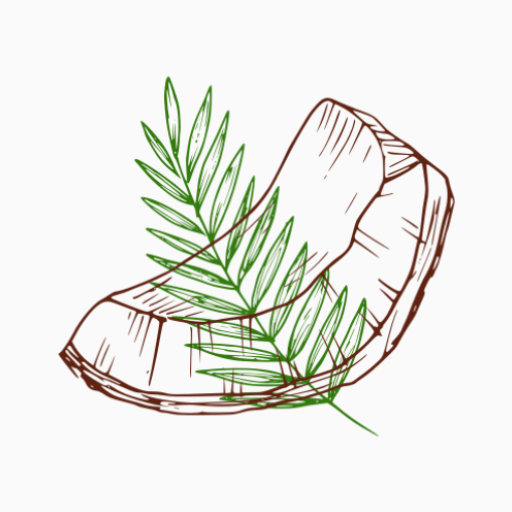
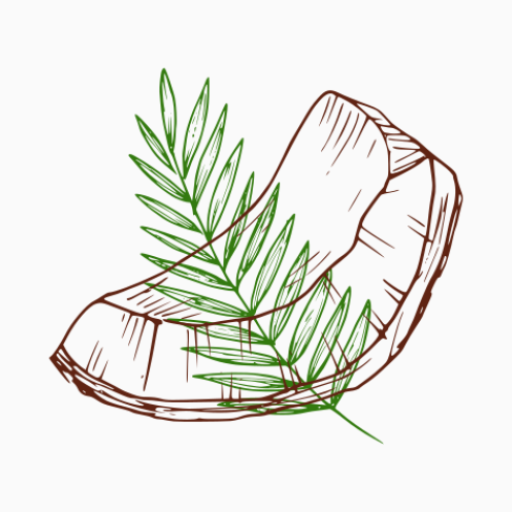
Added aesthetics, need to implement MVVM

Changed region(s): [[0.0938, 0.125, 0.9062, 0.8438], [0.625, 0.2812, 0.6562, 0.3438], [0.7188, 0.8438, 0.75, 0.875]]

diff --git a/app/src/main/java/com/example/cocophraser/CocoPhraserScreen.kt b/app/src/main/java/com/example/cocophraser/CocoPhraserScreen.kt
@@ -1,5 +1,6 @@
 package com.example.cocophraser
 
+import androidx.compose.foundation.Image
 import androidx.compose.foundation.border
 import androidx.compose.foundation.layout.Arrangement
 import androidx.compose.foundation.layout.Box
@@ -8,6 +9,7 @@ import androidx.compose.foundation.layout.Spacer
 import androidx.compose.foundation.layout.fillMaxSize
 import androidx.compose.foundation.layout.height
 import androidx.compose.foundation.layout.padding
+import androidx.compose.foundation.layout.size
 import androidx.compose.foundation.layout.width
 import androidx.compose.foundation.shape.RoundedCornerShape
 import androidx.compose.material3.Button
@@ -21,6 +23,9 @@ import androidx.compose.runtime.setValue
 import androidx.compose.ui.Alignment
 import androidx.compose.ui.Modifier
 import androidx.compose.ui.graphics.Color
+import androidx.compose.ui.res.painterResource
+import androidx.compose.ui.text.font.FontFamily
+import androidx.compose.ui.text.font.FontWeight
 import androidx.compose.ui.unit.dp
 import androidx.compose.ui.unit.sp
 import kotlinx.coroutines.CoroutineScope
@@ -34,7 +39,7 @@ fun CocoPhraserScreen() {
     var desiredPasswordLength by remember { mutableStateOf(10f) }
 
     // List of dictionary words (you can replace it with your own words)
-    val dictionaryWords = FourThousandWords.words
+    val dictionaryWords = LocalWordList.words
 
     // Function to generate a random character
     fun generateRandomCharacter(): Char {
@@ -82,7 +87,17 @@ fun CocoPhraserScreen() {
             verticalArrangement = Arrangement.Center,
             horizontalAlignment = Alignment.CenterHorizontally
         ) {
-            Text("Coco Phraser", fontSize = 24.sp)
+            Image(
+                painter = painterResource(R.mipmap.coco_phraser_shell_foreground), // Replace with your image resource ID
+                contentDescription = "Image content description", // Provide a description for accessibility
+                Modifier.size(120.dp)
+            )
+
+
+            Text("Coco Phraser",
+                fontSize = 28.sp,
+                fontFamily = FontFamily.Monospace,
+                fontWeight = FontWeight.Bold)
 
             Spacer(modifier = Modifier.padding(16.dp))
 
@@ -135,6 +150,12 @@ fun CocoPhraserScreen() {
             }
 
             Spacer(modifier = Modifier.padding(bottom = 32.dp))
+
+            Image(
+                painter = painterResource(R.mipmap.coco_phraser_leaf_foreground), // Replace with your image resource ID
+                contentDescription = "Image content description", // Provide a description for accessibility
+                Modifier.size(200.dp)
+            )
         }
     }
 }

diff --git a/app/src/main/java/com/example/cocophraser/LocalWordList.kt b/app/src/main/java/com/example/cocophraser/LocalWordList.kt
@@ -1,6 +1,6 @@
 package com.example.cocophraser
 
-object FourThousandWords {
+object LocalWordList {
     val words = listOf(
         "abandoned", "absolutely", "accidentally", "according", "achievement", "acquainted", "adjustment",
         "advertising", "afterwards", "agriculture", "altogether", "ambitious", "americans", "ancestors",
